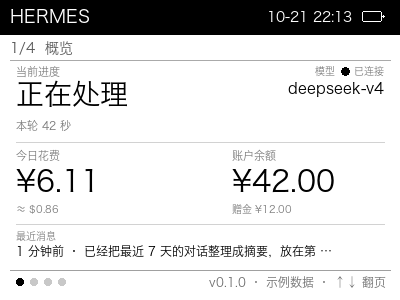
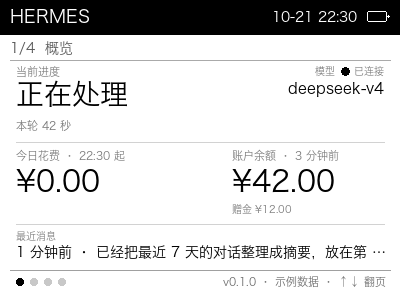
fix: 规避 Hiragino 12/13px 数字字形缺陷（4 被画成斜杠），统一 14px

diff --git a/agent_status.py b/agent_status.py
@@ -323,7 +323,7 @@ def render(out, page=0):
     y = 68
     def line(label, value, big=False, dim=False):
         nonlocal y
-        d.text((12, y), label, font=font(13), fill=110)
+        d.text((12, y), label, font=font(14), fill=110)
         while d.textlength(value, font=font(19 if big else 16)) > W - 24 and len(value) > 4:
             value = value[:-2] + "…"
         d.text((12, y + 16), value, font=font(19 if big else 16), fill=70 if dim else 0)
@@ -400,13 +400,13 @@ def render(out, page=0):
         d.text((16, 231), "最近消息", font=font(10, bold=False), fill=125)
         if m:
             body = clean_text(m["content"], 22)
-            d.text((16, 245), f"{ago(m['ts'])} · {body}", font=font(12), fill=0)
+            d.text((16, 244), f"{ago(m['ts'])} · {body}", font=font(14), fill=0)
         else:
-            d.text((16, 245), "暂无记录", font=font(12), fill=110)
+            d.text((16, 244), "暂无记录", font=font(14), fill=110)
 
     elif page == 1:
         # 统计：近 7 日消息
-        d.text((16, 68), "近 7 日消息", font=font(13), fill=110)
+        d.text((16, 68), "近 7 日消息", font=font(14), fill=110)
         wc = week_counts()
         RX, base_y, max_h = 22, 198, 96
         bw, gap = 36, 14
@@ -429,9 +429,9 @@ def render(out, page=0):
             d.text((RX + i * (bw + gap) + bw / 2 - 5, base_y + 6), wd, font=font(11, bold=False), fill=120)
 
         d.line([10, 234, W - 10, 234], fill=200)
-        d.text((16, 242), f"今日 {today_msg_count()} 条", font=font(13), fill=0)
-        d.text((148, 242), f"记忆 {count_facts()}", font=font(13), fill=0)
-        d.text((272, 242), f"技能 {count_skills()}", font=font(13), fill=0)
+        d.text((16, 241), f"今日 {today_msg_count()} 条", font=font(14), fill=0)
+        d.text((150, 241), f"记忆 {count_facts()}", font=font(14), fill=0)
+        d.text((276, 241), f"技能 {count_skills()}", font=font(14), fill=0)
 
     elif page == 2:
         today = datetime.datetime.now()
@@ -457,7 +457,7 @@ def render(out, page=0):
         cx = 16 + i * 14
         d.ellipse([cx, HT - 22, cx + 7, HT - 15], fill=0 if i == page else 200)
     hint = f"v{VERSION} · " + ("示例数据 · " if DEMO else "") + "↑↓ 翻页"
-    d.text((W - 14 - d.textlength(hint, font=font(12)), HT - 24), hint, font=font(12), fill=110)
+    d.text((W - 14 - d.textlength(hint, font=font(11)), HT - 24), hint, font=font(11), fill=110)
 
     import io
     global _last_png

diff --git a/README.md b/README.md
@@ -40,6 +40,7 @@
 - **版本标记**：页脚显示 `v0.1.0`，方便反馈时对齐版本
 - **零配置可试**：读不到本机助手状态时自动进入示例数据模式（页脚标注"示例数据"）
 - **十六灰阶**：中文用 Hiragino Sans GB 渲染，400×300 满屏
+- **字号规避**：Hiragino 在 12/13px 会把数字 `4` 渲染成斜杠状，项目统一避开这两个字号（仅用 10/11/14px 及以上）
 
 ## 架构
 
